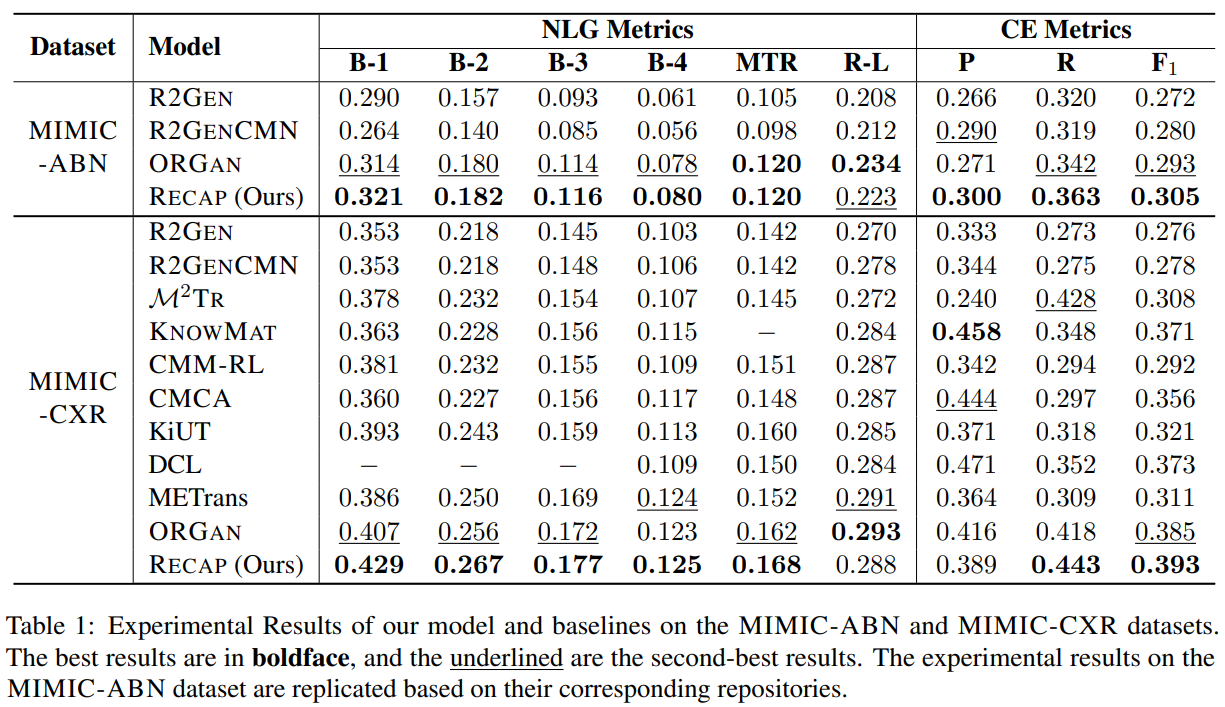
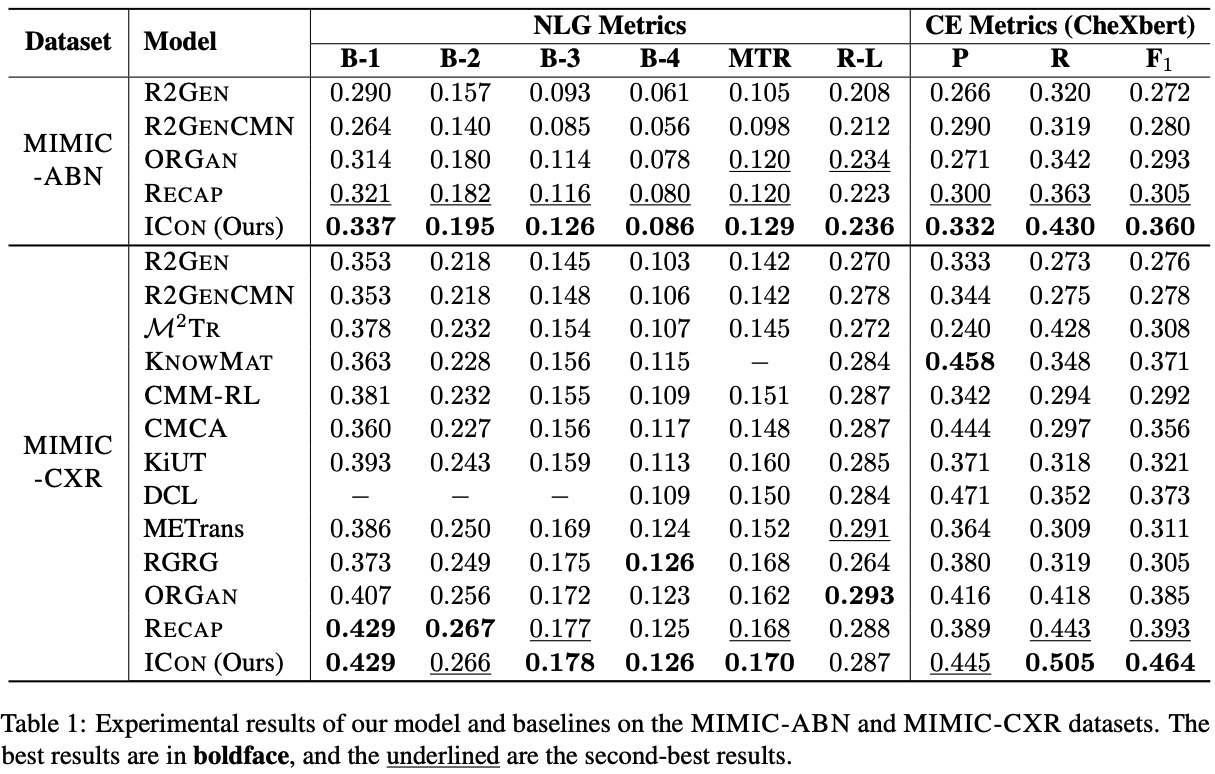
Update Project Page

Changed region(s): [[0.0, 0.0, 1.0, 0.9958]]

diff --git a/index.html b/index.html
@@ -25,7 +25,7 @@
   <meta name="viewport" content="width=device-width, initial-scale=1">
 
 
-  <title>Recap (EMNLP'23 Findings)</title>
+  <title>ICon (Preprint 2024)</title>
   <link rel="icon" type="image/x-icon" href="static/images/favicon.png">
   <link href="https://fonts.googleapis.com/css?family=Google+Sans|Noto+Sans|Castoro" rel="stylesheet">
 
@@ -51,8 +51,8 @@
         <div class="columns is-centered">
           <div class="column has-text-centered">
             <h1 class="title is-1 publication-title"><img src="static/images/favicon.png"
-                style="height: 40px; width: 40px;"> <span style="font-variant:small-caps;">Recap</span>: Towards Precise
-              Radiology Report Generation via Dynamic Disease Progression Reasoning</h1>
+                style="height: 40px; width: 40px;"> <span style="font-variant:small-caps;">ICon</span>: Improving
+              Inter-Report Consistency of Radiology Report Generation via Lesion-aware Mix-up Augmentation</h1>
             <div class="is-size-5 publication-authors">
               <!-- Paper authors -->
               <span class="author-block">
@@ -63,6 +63,8 @@
                 <a href="https://kaishxu.github.io/" target="_blank">Kaishuai Xu</a><sup>1*</sup>,</span>
               </span>
               <span class="author-block">
+                <a href="https://gaiakoen.github.io/yanhu/" target="_blank">Yan Hu</a><sup>2</sup>,</span>
+              <span class="author-block">
                 <a href="https://www4.comp.polyu.edu.hk/~cswjli/" target="_blank">Wenjie Li</a><sup>1</sup>,</span>
               <span class="author-block">
                 <a href="https://faculty.sustech.edu.cn/liuj/" target="_blank">Jiang Liu</a><sup>2</sup></span>
@@ -71,27 +73,16 @@
 
             <div class="is-size-5 publication-authors">
               <span class="author-block"><sup>1</sup>The Hong Kong Polytechnic University (PolyU), Hong Kong, China<br>
-                <sup>2</sup>Southern University of Science and Technology (SUSTech), Shenzhen, China<br>EMNLP 2023
-                Findings</span>
+                <sup>2</sup>Southern University of Science and Technology (SUSTech), Shenzhen, China<br>Preprint
+                2024</span>
               <span class="eql-cntrb"><small><br><sup>*</sup>Indicates Equal Contribution</small></span>
             </div>
 
             <div class="column has-text-centered">
               <div class="publication-links">
-                <!-- Arxiv PDF link -->
-                <span class="link-block">
-                  <a href="https://aclanthology.org/2023.findings-emnlp.140/" target="_blank"
-                    class="external-link button is-normal is-rounded is-dark">
-                    <span class="icon">
-                      <i class="fas fa-file-pdf"></i>
-                    </span>
-                    <span>Paper</span>
-                  </a>
-                </span>
-
                 <!-- Github link -->
                 <span class="link-block">
-                  <a href="https://github.com/wjhou/Recap" target="_blank"
+                  <a href="https://github.com/wjhou/ICon" target="_blank"
                     class="external-link button is-normal is-rounded is-dark">
                     <span class="icon">
                       <i class="fab fa-github"></i>
@@ -102,7 +93,7 @@
 
                 <!-- ArXiv abstract Link -->
                 <span class="link-block">
-                  <a href="https://arxiv.org/abs/2310.13864" target="_blank"
+                  <a href="https://arxiv.org/abs/2402.12844" target="_blank"
                     class="external-link button is-normal is-rounded is-dark">
                     <span class="icon">
                       <i class="ai ai-arxiv"></i>
@@ -117,25 +108,6 @@
       </div>
     </div>
   </section>
-  <section class="hero teaser">
-    <div class="container is-max-desktop">
-      <div class="columns is-centered has-text-centered">
-        <div class="column is-four-fifths">
-          <h2 class="title is-3">Updates</h2>
-          <div class="content has-text-justified">
-            <strong>[2024/01/13]</strong> Checkpoints (Stage 1 and Stage 2) for the MIMIC-ABN dataset are available at
-            <a href="https://drive.google.com/drive/folders/1kGVGeqvGG__jUh8Uds-SMypUD3BPGP5U?usp=sharing">Google
-              Drive</a>
-            <strong>[2024/01/12]</strong> Checkpoints (Stage 1 and Stage 2) for the MIMIC-CXR dataset are available at
-            <a href="https://drive.google.com/drive/folders/1Tdu1d_OaxiGGoPEpajvHaolzD99mz7u4?usp=sharing">Google
-              Drive</a>
-            </p>
-          </div>
-        </div>
-      </div>
-    </div>
-  </section>
-  <br>
 
   <!-- Paper abstract -->
   <section class="section hero is-light">
@@ -145,22 +117,33 @@
           <h2 class="title is-3">Abstract</h2>
           <div class="content has-text-justified">
             <p>
-              Automating radiology report generation can significantly alleviate radiologists' workloads. Previous
-              research has primarily focused on realizing highly concise observations while neglecting the precise
-              attributes that determine the severity of diseases (e.g., small pleural effusion). Since incorrect
-              attributes will lead to imprecise radiology reports, strengthening the generation process with precise
-              attribute modeling becomes necessary. Additionally, the temporal information contained in the historical
-              records, which is crucial in evaluating a patient's current condition (e.g., heart size is unchanged), has
-              also been largely disregarded. To address these issues, we propose <b><span
-                  style="font-variant:small-caps;">Recap</span></b>, which generates precise and accurate radiology
-              reports via dynamic disease progression reasoning. Specifically, <b><span
-                  style="font-variant:small-caps;">Recap</span></b> first predicts the observations and progressions
-              (i.e.,
-              spatiotemporal information) given two consecutive radiographs. It then combines the historical records,
-              spatiotemporal information, and radiographs for report generation, where a disease progression graph and
-              dynamic progression reasoning mechanism are devised to accurately select the attributes of each
-              observation and progression. Extensive experiments on two publicly available datasets demonstrate the
-              effectiveness of our model.
+              Previous research on radiology report generation has made significant progress in terms of increasing the
+              clinical
+              accuracy of generated reports. In this paper, we emphasize another crucial quality that it should possess,
+              i.e.,
+              \textit{inter-report consistency}, which refers to the capability of generating consistent reports for
+              semantically
+              equivalent radiographs. This quality is even of greater significance than the overall report accuracy in
+              terms of
+              ensuring the system's credibility, as a system prone to providing conflicting results would severely erode
+              users' trust.
+              Regrettably, existing approaches struggle to maintain inter-report consistency, exhibiting biases towards
+              common
+              patterns and susceptibility to lesion variants. To address this issue, we propose <b><span
+                  style="font-variant:small-caps;">ICon</span></b>, which
+              improves the inter-report consistency of radiology report generation.
+              Aiming at
+              enhancing the system's ability to capture the similarities in semantically equivalent lesions, our
+              approach involves
+              first extracting lesions from input images and examining their characteristics. Then, we introduce a
+              lesion-aware mix-up
+              augmentation technique to ensure that the representations of the semantically equivalent lesions align
+              with the same
+              attributes, by linearly interpolating them during the training phase. Extensive experiments on three
+              publicly available
+              chest X-ray datasets verify the effectiveness of our approach, both in terms of improving the consistency
+              and accuracy
+              of the generated reports.
             </p>
             <img src="static/images/overview.png">
           </div>
@@ -180,7 +163,6 @@
         <h3 class="title is-4">Quantitative Results</h3>
         <img src="static/images/table1.jpg">
         <img src="static/images/table2.jpg">
-        <img src="static/images/table3.jpg">
       </div>
       <div class="content has-text-justified">
         <h3 class="title is-4">Qualitative Results</h3>
@@ -193,17 +175,10 @@
   <section class="section" id="BibTeX">
     <div class="container is-max-desktop content">
       <h2 class="title">BibTeX</h2>
-      <pre><code>@inproceedings{hou-etal-2023-recap,
-  title = "{RECAP}: Towards Precise Radiology Report Generation via Dynamic Disease Progression Reasoning",
-  author = "Hou, Wenjun and Cheng, Yi and Xu, Kaishuai and Li, Wenjie and Liu, Jiang",
-  booktitle = "Findings of the Association for Computational Linguistics: EMNLP 2023",
-  month = dec,
-  year = "2023",
-  address = "Singapore",
-  publisher = "Association for Computational Linguistics",
-  url = "https://aclanthology.org/2023.findings-emnlp.140",
-  doi = "10.18653/v1/2023.findings-emnlp.140",
-  pages = "2134--2147",
+      <pre><code>@inproceedings{hou-etal-2024-icon,
+      title = "{ICON}: Improving Inter-Report Consistency of Radiology Report Generation via Lesion-aware Mix-up
+      Augmentation",
+      author = "Hou, Wenjun and Cheng, Yi and Xu, Kaishuai and Hu, Yan and Li, Wenjie and Liu, Jiang",
 }</code></pre>
     </div>
   </section>
